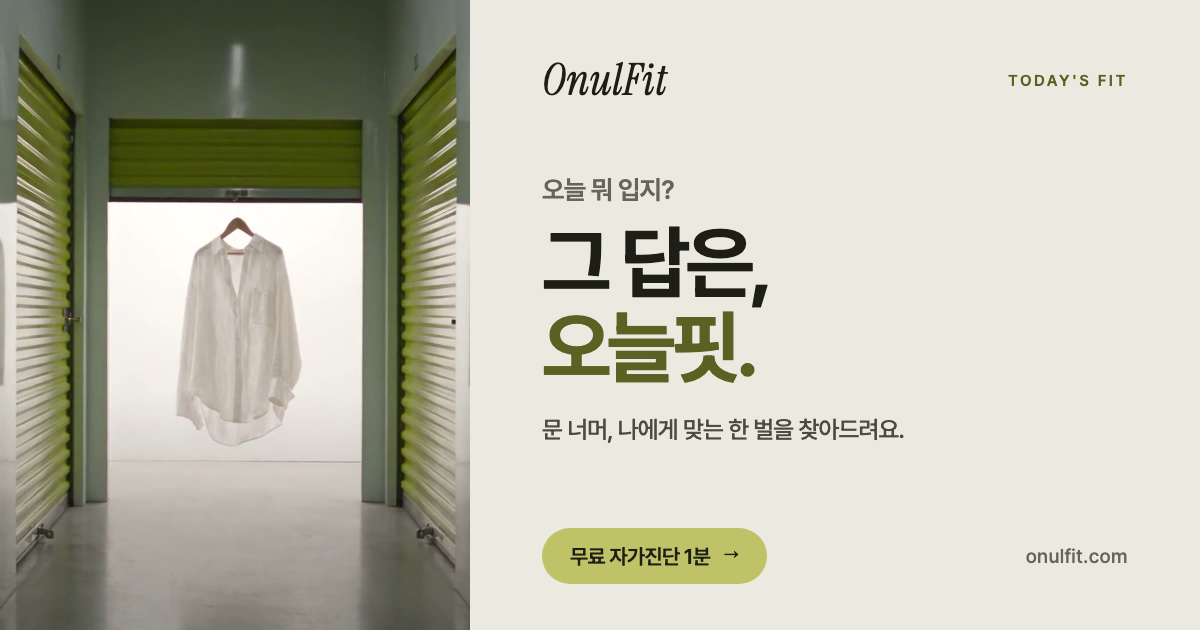
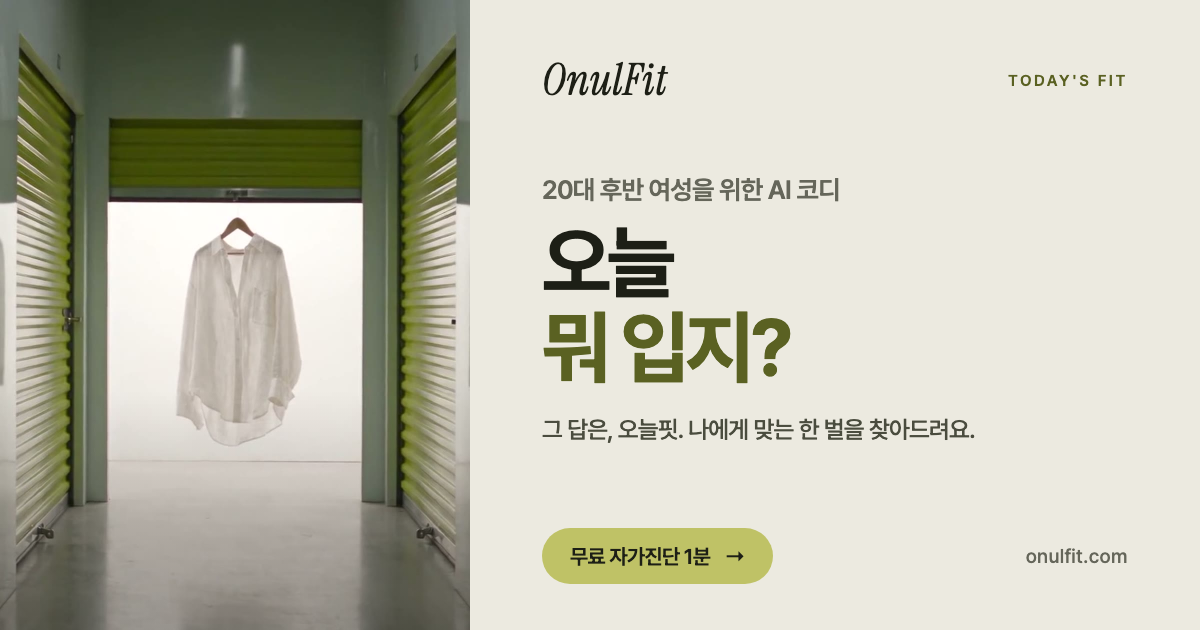
링크 미리보기 카드 큰 글자를 '오늘 뭐 입지?'로
- 원본: onulfit-kit/2026-11-09_공유카드_오늘뭐입지/card.html
- 카톡 등이 새 이미지를 가져가도록 ?v=20261109

diff --git a/lib/og.ts b/lib/og.ts
@@ -1,9 +1,9 @@
 /* 링크 공유 카드(카카오톡·문자·인스타 미리보기) 이미지
-   원본: onulfit-kit/2026-11-06_공유카드/card.html (1200×630으로 캡처)
+   원본: onulfit-kit/2026-11-09_공유카드_오늘뭐입지/card.html (1200×630으로 캡처, 처음 버전은 2026-11-06_공유카드)
    이미지를 바꾸면 ?v= 값을 올려야 카카오톡 등이 새 이미지를 다시 가져간다.
    페이지에서 openGraph를 따로 쓰면 layout의 images가 사라지므로, 그때는 이 값을 같이 넣는다. */
 export const OG_IMAGE = {
-  url: "/og-image.png?v=20261106b",
+  url: "/og-image.png?v=20261109",
   width: 1200,
   height: 630,
   alt: "오늘 뭐 입지? 그 답은, 오늘핏. 올리브 문 너머 린넨 셔츠 한 벌",
